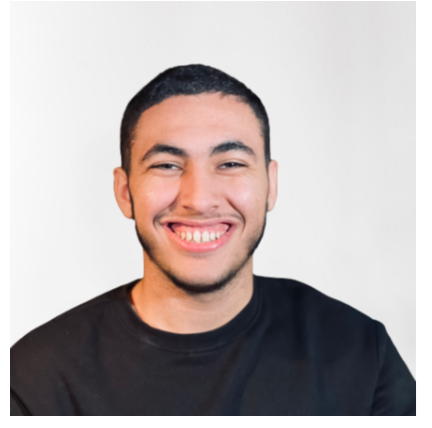
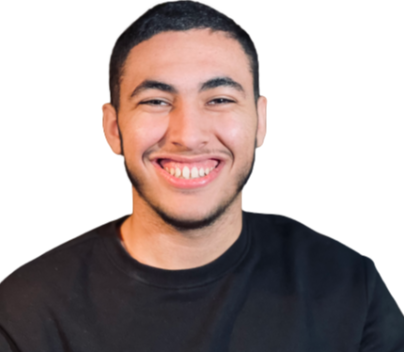
finish about component

diff --git a/src/app/about/about.component.css b/src/app/about/about.component.css
@@ -1,0 +1,78 @@
+.content{
+    height: 90vh;
+    width: 100%;
+    background: #283c86;  /* fallback for old browsers */
+    background: -webkit-linear-gradient(to bottom, #45a247, #283c86);  /* Chrome 10-25, Safari 5.1-6 */
+    background: linear-gradient(to bottom, #45a247, #283c86); /* W3C, IE 10+/ Edge, Firefox 16+, Chrome 26+, Opera 12+, Safari 7+ */
+    
+}
+
+.presentation{
+    display: flex;
+    flex-direction: column;
+    align-items: center;
+}
+
+.presentation h1{
+    font-size: 3em;
+    font-family: 'Roboto', sans-serif;
+    color:#d1cece;
+    text-shadow: 2px 2px #474747;
+}
+
+.row img{
+    width: 75%;
+    position: absolute;
+    bottom: -90%;
+    opacity: 70%;
+    left: -5%;
+}
+
+.row p{
+    font-size: 1.6em;
+    font-family: 'Roboto', sans-serif;
+    color:#d4d1d1;
+    text-shadow: 2px 2px #474747;
+    margin: 0em 1em 0 1em;
+}
+
+@media screen and (min-width: 1207px) {
+    .row{
+        display: flex;
+        flex-direction: row;
+        justify-content: space-around;
+        align-items: center;
+        flex-wrap: nowrap;
+    }
+
+    .row img{
+        position: static;
+        width: 28%;
+        border-radius: 25%;
+    }
+
+    .presentation p{
+        font-size: 3.1em;
+    }
+}
+
+@media screen and (min-width: 761px) and (max-width: 1207px) {
+    .row{
+        display: flex;
+        flex-direction: row;
+        justify-content: space-around;
+        align-items: center;
+        flex-wrap: nowrap;
+    }
+
+    .row img{
+        position: absolute;
+        width: 35%;
+        bottom: -90%;
+        left: 40%;
+    }
+
+    .presentation p{
+        font-size: 3em;
+    }
+}

diff --git a/src/app/homepage/homepage.component.css b/src/app/homepage/homepage.component.css
@@ -1,6 +1,6 @@
 .content{
     height: 100vh;
-    width: 100vw;
+    width: 100%;
     background-color: #272727;
     display: flex;
     align-items: center;
@@ -62,9 +62,9 @@
 
     .arrow{
         display: block;
-        position: fixed;
+        position: absolute;
         bottom: 0;
-        left: 45%;
+        left: 48%;
         animation: bounce; /* referring directly to the animation's @keyframe declaration */
         animation-duration: 2s; /* don't forget to set a duration! */
         animation-iteration-count: infinite; /* otherwise it'll just play once */
@@ -72,8 +72,8 @@
     }
 
     .arrow img{
-        width: 7em;
-        height: 7em;
+        width: 5em;
+        height: 5em;
     }
 }
 

diff --git a/src/app/about/about.component.spec.ts b/src/app/about/about.component.spec.ts
@@ -1,0 +1,23 @@
+import { ComponentFixture, TestBed } from '@angular/core/testing';
+
+import { AboutComponent } from './about.component';
+
+describe('AboutComponent', () => {
+  let component: AboutComponent;
+  let fixture: ComponentFixture<AboutComponent>;
+
+  beforeEach(async () => {
+    await TestBed.configureTestingModule({
+      declarations: [ AboutComponent ]
+    })
+    .compileComponents();
+
+    fixture = TestBed.createComponent(AboutComponent);
+    component = fixture.componentInstance;
+    fixture.detectChanges();
+  });
+
+  it('should create', () => {
+    expect(component).toBeTruthy();
+  });
+});

diff --git a/src/app/app-routing.module.ts b/src/app/app-routing.module.ts
@@ -1,10 +1,11 @@
 import { NgModule } from '@angular/core';
 import { RouterModule, Routes } from '@angular/router';
+import { AboutComponent } from './about/about.component';
 import { HomepageComponent } from './homepage/homepage.component';
 
 const routes: Routes = [
   {path: '',  component: HomepageComponent},// default route
-  {path: 'about',  component: HomepageComponent},
+  {path: 'about',  component: AboutComponent},
   {path: 'skills',  component: HomepageComponent},
   {path: 'projects',  component: HomepageComponent}, 
 ];

diff --git a/src/app/about/about.component.html b/src/app/about/about.component.html
@@ -1,0 +1,14 @@
+<div class="content">
+  <div class="presentation">
+    <h1>About me :</h1>
+    <div class="row">
+      <img src="..\assets\images\Karim.PNG" alt="" />
+      <p>
+        My name is Boudjemai Karim and i'm 21 years old. I'm really creative and
+        i like to learn new things like piano, guitar, drawing etc. I did a
+        course in web development and i'm currently looking for a job. I'm a
+        hard worker and i like to work in a team.
+      </p>
+    </div>
+  </div>
+</div>

diff --git a/src/app/header/header.component.css b/src/app/header/header.component.css
@@ -2,8 +2,7 @@
 
 .customNavbar{
     background-color:#272727 ;
-    width: 100vw;
-    position: relative;
+    width: 100%;
     position: fixed;
     z-index: 2;
     display: flex;
@@ -11,6 +10,7 @@
     align-items: center;
     height: 6em;
     top: 0%;
+    padding-right: 2em;
 }
 
 .logo{
@@ -80,9 +80,9 @@
 }
 
 .burgerMenuOpen{
-    height: 15em;
+    height: 12em;
     background-color: #272727;
-    position: absolute;
+    position: fixed;
     top: 6em;
     left: 0;
     right: 0;

diff --git a/src/app/app.module.ts b/src/app/app.module.ts
@@ -5,12 +5,14 @@ import { AppRoutingModule } from './app-routing.module';
 import { AppComponent } from './app.component';
 import { HeaderComponent } from './header/header.component';
 import { HomepageComponent } from './homepage/homepage.component';
+import { AboutComponent } from './about/about.component';
 
 @NgModule({
   declarations: [
     AppComponent,
     HeaderComponent,
-    HomepageComponent
+    HomepageComponent,
+    AboutComponent
   ],
   imports: [
     BrowserModule,

diff --git a/src/app/about/about.component.ts b/src/app/about/about.component.ts
@@ -1,0 +1,15 @@
+import { Component, OnInit } from '@angular/core';
+
+@Component({
+  selector: 'app-about',
+  templateUrl: './about.component.html',
+  styleUrls: ['./about.component.css']
+})
+export class AboutComponent implements OnInit {
+
+  constructor() { }
+
+  ngOnInit(): void {
+  }
+
+}

diff --git a/src/app/app.component.html b/src/app/app.component.html
@@ -1,2 +1,3 @@
 <app-header></app-header>
 <app-homepage></app-homepage>
+<app-about></app-about>
